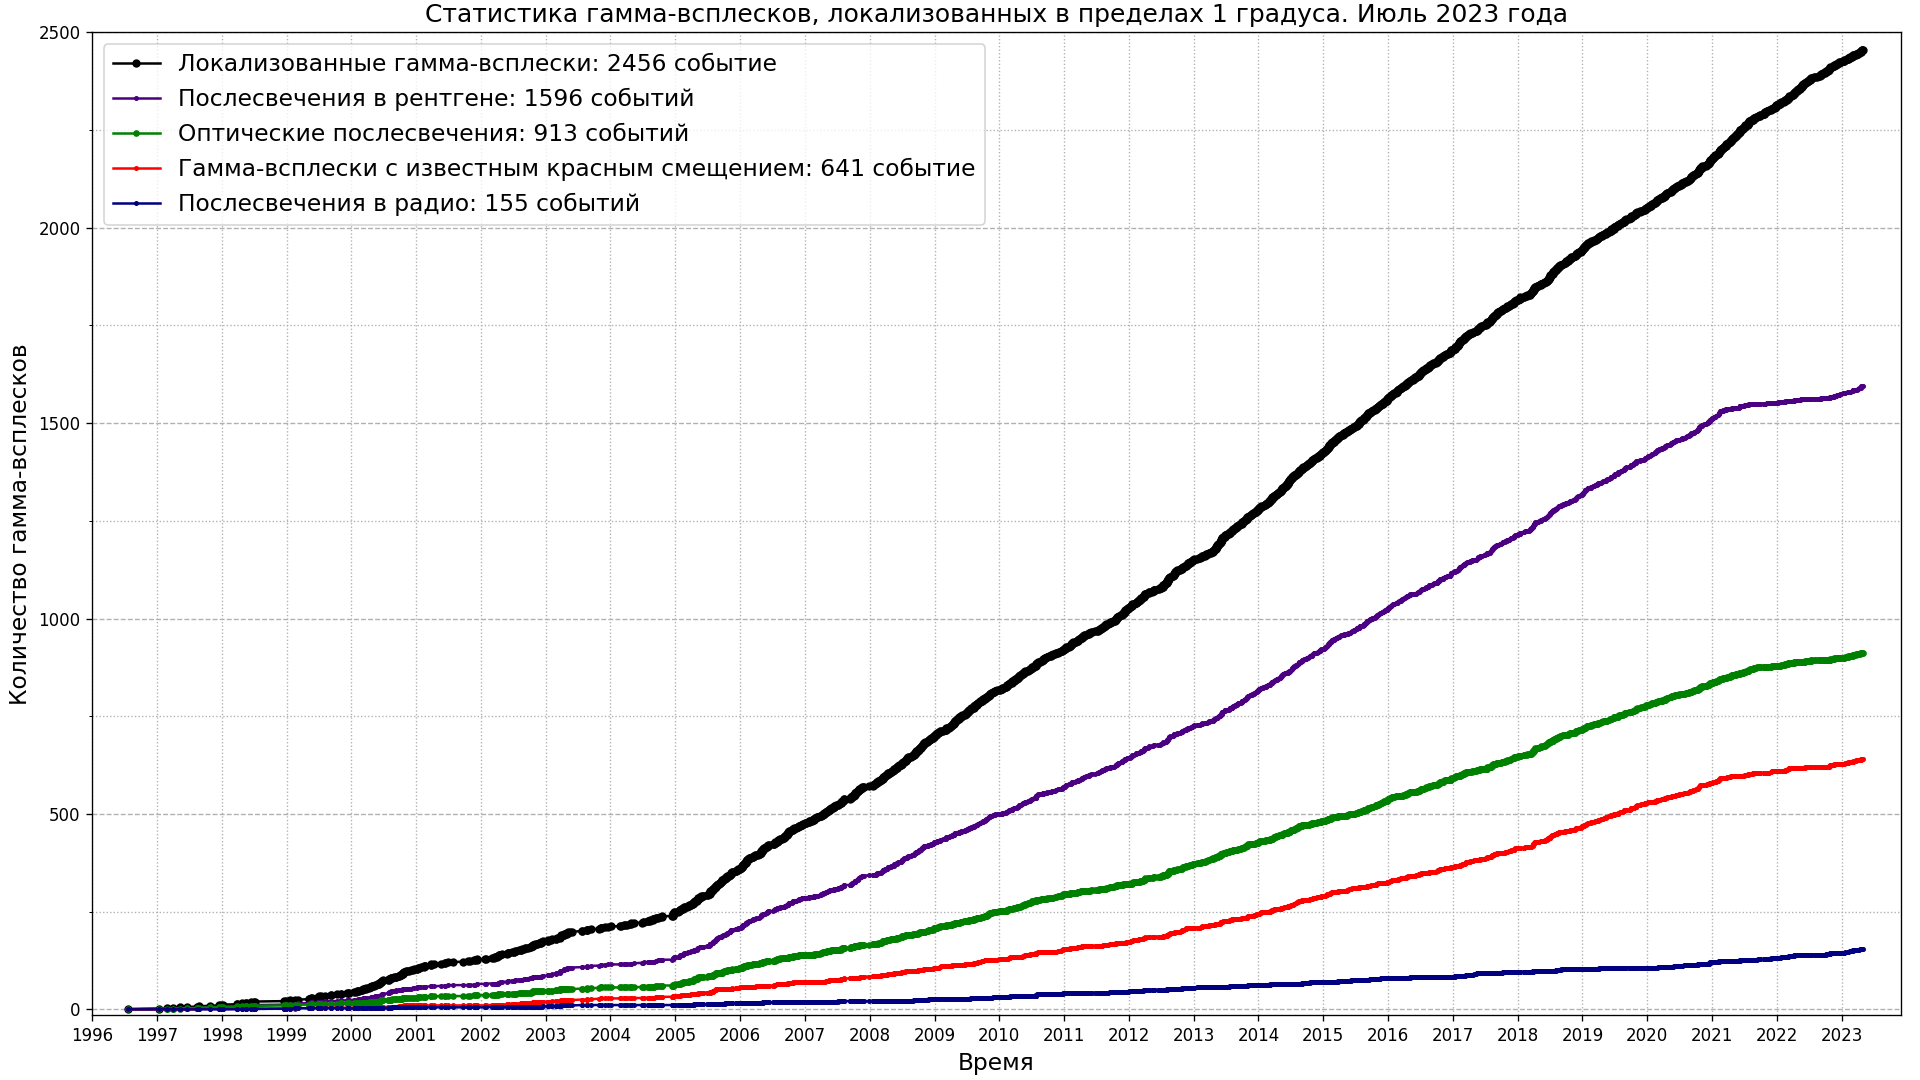
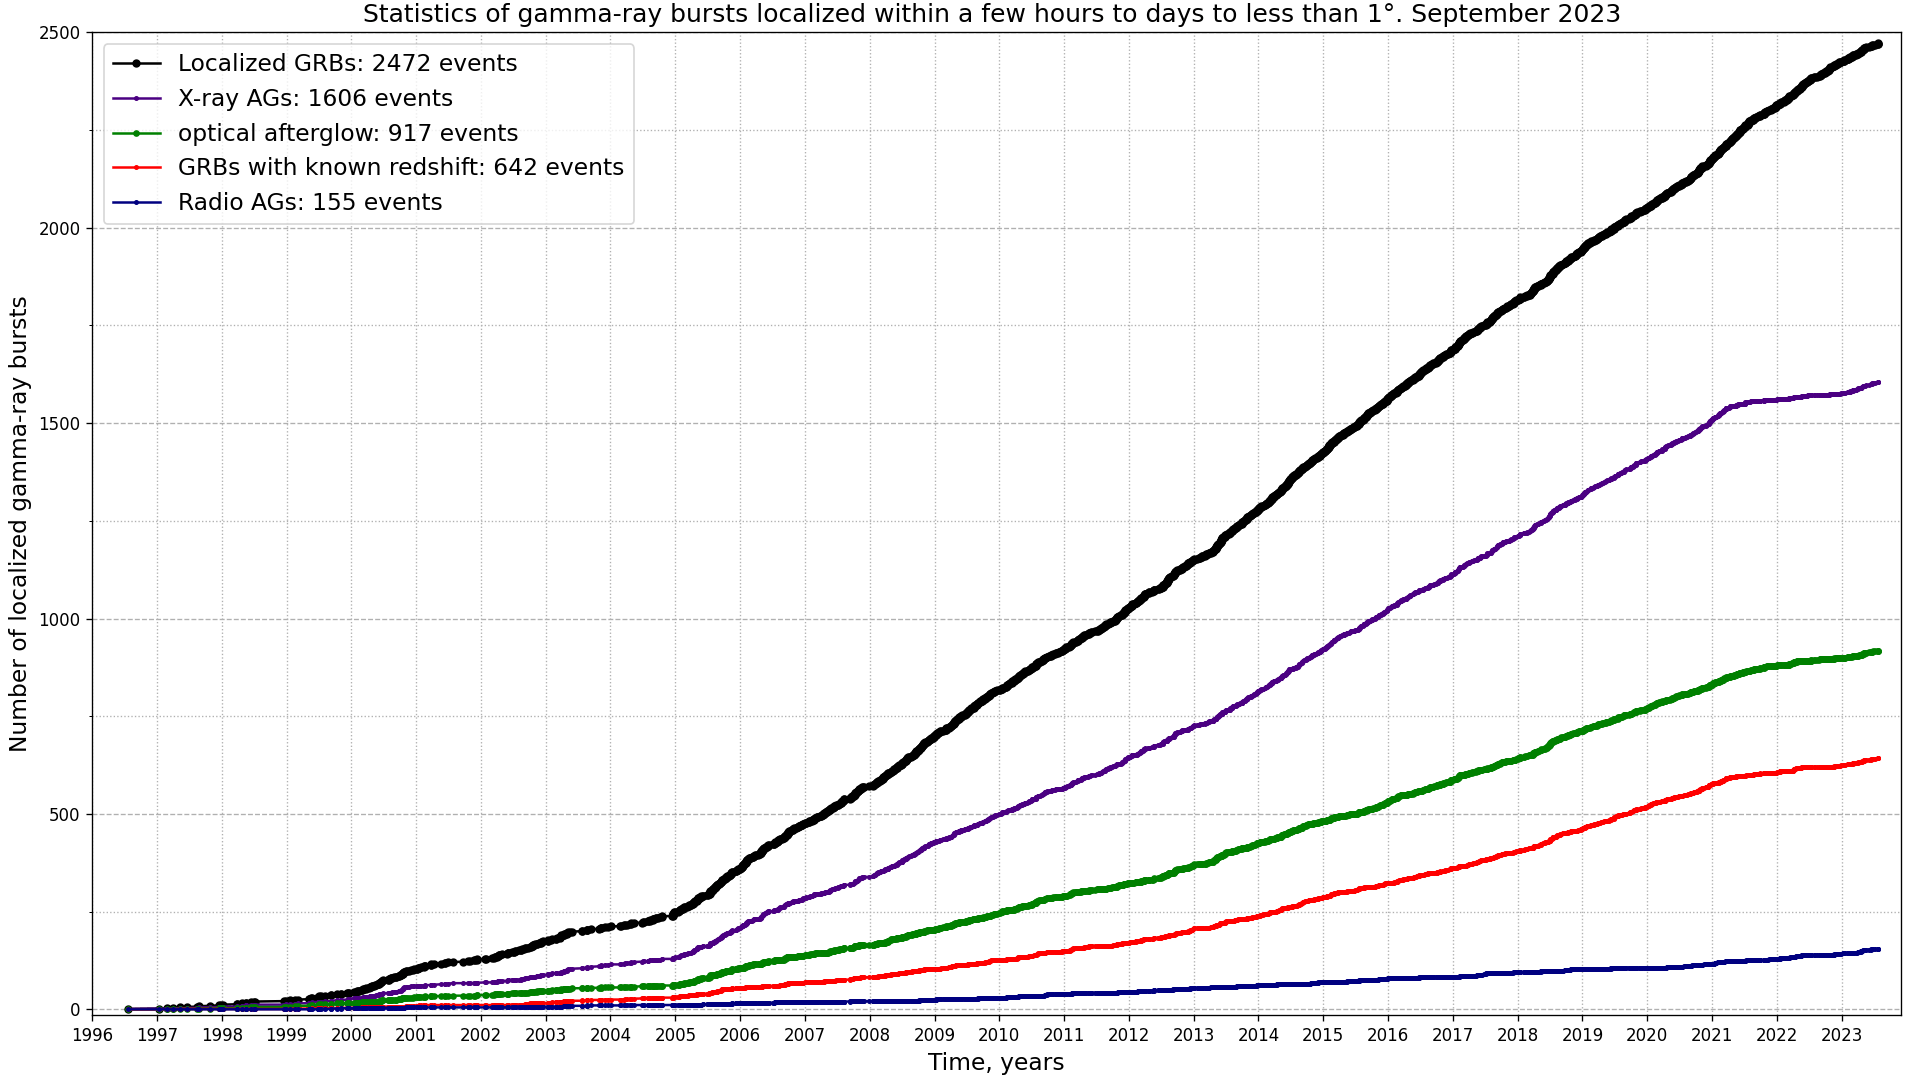
update plots, code and README.md files

diff --git a/src/astrodata/stars/plot_localized_grbs_stats.py b/src/astrodata/stars/plot_localized_grbs_stats.py
@@ -1,5 +1,5 @@
 """Python script for plotting charts with localized GRBs statistics.
-Data source:
+Data source: Jochen Greiner,
 Gamma-ray bursts localized within a few hours to days to less than 1 degree
 https://www.mpe.mpg.de/~jcg/grbgen.html
 """
@@ -64,7 +64,7 @@ def parse_table(trs):
         tds = tr.findAll("td")
         grbname = tds[0].a.text
         xray_ag = tds[5].text
-        apt_ag = tds[6].text
+        opt_ag = tds[6].text
         rad_ag = tds[7].text
         redshift = tds[9].text
         year = grbname[:2]
@@ -91,7 +91,7 @@ def parse_table(trs):
             except KeyError:
                 ra_dct[year] = 1
         grb_date = datetime(year, int(grbname[2:4]), int(grbname[4:6]))
-        if apt_ag and apt_ag.strip() in ("y", "SN"):  # with or without "y?"
+        if opt_ag and opt_ag.strip() in ("y", "SN"):  # with or without "y?"
             ot_num += 1
             try:
                 opts_dct[year] += 1
@@ -108,8 +108,6 @@ def parse_table(trs):
         xanums.append(xa_num)
         ranums.append(ra_num)
         rss.append(rs_num)
-    if args.verbose:
-        print("GRBs stats:", years_dct, opts_dct)
     return (grb_dates, grbnums, otnums, xanums, ranums, rss, years_dct,
             opts_dct, ra_dct, xa_dct, rs_dct)
 
@@ -118,6 +116,8 @@ parser = argparse.ArgumentParser(
     description="Graph plotter script with number of gamma-ray bursts")
 parser.add_argument("-v", "--verbose", action="store_true",
                     help="Print additional information")
+parser.add_argument("-s", "--savedata", action="store_true",
+                    help="Save data to JSON file")
 args = parser.parse_args()
 
 soup = get_soup_request("https://www.mpe.mpg.de/~jcg/grbgen.html", "lxml")
@@ -132,14 +132,18 @@ years_s, gnums_s, opts_s = get_summary_grbs_stats(trs_summary)
     xa_dct, rs_dct
 ) = parse_table(trs_all)
 
-locale.setlocale(locale.LC_ALL, "ru_RU")
+DPI = 120
+LOC = "ru_RU"  # "en_US"  #
+with open(f"../locales/grbs-{LOC[:2]}.json", "r", encoding="utf8") as loc_file:
+    msgs = json.load(loc_file)
+locale.setlocale(locale.LC_ALL, LOC)
 today = datetime.now()
 MONTH, YEAR = today.strftime("%B"), today.year
 PLOTS_DIR = os.path.join(os.pardir, os.pardir, os.pardir, "plots", "stars")
 FILE_EXT = "png"
-TOTAL_GRBS_FILENAME = "grbs_total_number_plot." + FILE_EXT
-pth = os.path.join(PLOTS_DIR, TOTAL_GRBS_FILENAME)
-tmp_pth = os.path.join(PLOTS_DIR, "grbs_total_number_plot_." + FILE_EXT)
+TOTAL_GRBS_FILENAME = f"grbs_total_number_plot-{LOC[:2]}"
+pth = os.path.join(PLOTS_DIR, f"{TOTAL_GRBS_FILENAME}.{FILE_EXT}")
+tmp_pth = os.path.join(PLOTS_DIR, f"{TOTAL_GRBS_FILENAME}_.{FILE_EXT}")
 
 fig, ax = plt.subplots(figsize=(16, 9))
 fig.subplots_adjust(0.048, 0.06, 0.99, 0.97)  # left=0.06, bottom=0.06, right=0.97, top=0.955
@@ -149,28 +153,28 @@ ax.yaxis.set_minor_locator(MultipleLocator(250))
 years = years[::-1]
 MS = 2
 plt.plot(years, grbnums, "ok-", ms=MS + 2,
-         label=f"Локализованные гамма-всплески: {len(grbnums)} событие")
+         label=f"{msgs['lgrbs']}: {len(grbnums)} {msgs['event'][0]}")
 plt.plot(years, xanums, "o-", ms=MS, color="indigo",
-         label=f"Послесвечения в рентгене: {xanums[-1]} событий")
+         label=f"{msgs['xrag']}: {xanums[-1]} {msgs['event'][1]}")
 plt.plot(years, otnums, "og-", ms=MS + 1,
-         label=f"Оптические послесвечения: {otnums[-1]} событий")
+         label=f"{msgs['optag']}: {otnums[-1]} {msgs['event'][1]}")
 plt.plot(years, rss, "o-", ms=MS, color="red",
-         label=f"Гамма-всплески с известным красным смещением: {rss[-1]} событие")
+         label=f"{msgs['rs']}: {rss[-1]} {msgs['event'][0]}")
 plt.plot(years, ranums, "o-", ms=MS, color="navy",
-         label=f"Послесвечения в радио: {ranums[-1]} событий")
+         label=f"{msgs['raag']}: {ranums[-1]} {msgs['event'][1]}")
 
 plt.xlim(datetime(1996, 1, 1), datetime(2023, 12, 1))
 plt.ylim(-15, 2500)
-TITLE = "Статистика гамма-всплесков, локализованных в пределах 1 градуса."
-plt.title(TITLE + f" {MONTH} {YEAR} года", fontsize=15)
-plt.xlabel("Время", fontsize=14)
-plt.ylabel("Количество гамма-всплесков", fontsize=14)
+TITLE = msgs["title"]
+plt.title(f"{TITLE}. {MONTH} {YEAR} {msgs['yr']}", fontsize=15)
+plt.xlabel(msgs["xlbl"], fontsize=14)
+plt.ylabel(msgs["ylbl"], fontsize=14)
 plt.grid(axis="y", which="major", linestyle="--")
 plt.grid(axis="x", which="major", linestyle=":")
 plt.grid(axis="y", which="minor", linestyle=":")
 plt.legend(fontsize=14, loc="upper left")
 
-plt.savefig(tmp_pth, dpi=120)
+plt.savefig(tmp_pth, dpi=DPI)
 if FILE_EXT == "svg":
     optimize_svg(tmp_pth, pth)
     os.remove(tmp_pth)
@@ -178,54 +182,75 @@ if FILE_EXT == "svg":
 if args.verbose:
     print("Plot stacked bar chart with numbers of optical afterglows")
 
-grbnums = list(years_dct.values())[::-1][1:]
-opts = list(opts_dct.values())[::-1]
-
-years_to_plot = list(opts_dct.keys())[::-1]
+grbnums = list(years_dct.values())[::-1]
+years_to_plot = list(years_dct.keys())[::-1]
 all_grbs = sum(grbnums)
 
 result_dct = {}
 grbnums_noopt = []
-all_grb_count, opt_count = 0, 0
+all_grb_count, xa_count, opt_count, ra_count, rs_count = 0, 0, 0, 0, 0
 for i, year in enumerate(years_to_plot):
     all_grb_count += grbnums[i]
-    opt_count += opts_dct[year]
+    if year in xa_dct:
+        xa_count += xa_dct[year]
+    else:
+        xa_dct[year] = 0
+    if year in opts_dct:
+        opt_count += opts_dct[year]
+    else:
+        opts_dct[year] = 0
+    if year in ra_dct:
+        ra_count += ra_dct[year]
+    else:
+        ra_dct[year] = 0
+    if year in rs_dct:
+        rs_count += rs_dct[year]
+    else:
+        rs_dct[year] = 0
     if args.verbose:
         print(
-            f"За {year} год {grbnums[i]} локализованных GRB, {xa_dct[year]} "
-            f"послесвечений в рентгене, {opts_dct[year]} оптических послесвечений, "
-            f"{ra_dct[year]} в радио, {rs_dct[year]} красных смещений. Всего "
-            f"к концу года {all_grb_count} GRB, {opt_count} послесвечений")
+            f"{year}: {grbnums[i]:3d} localized GRBs, {xa_dct[year]:3d} "
+            f"X-ray afterglows, {opts_dct[year]:2d} optical AGs, "
+            f"{ra_dct[year]:2d} radio AGs, {rs_dct[year]:2d} redshifts. Total "
+            f"by the end of the year {all_grb_count} GRBs, {opt_count} optical AGs"
+        )
     result_dct[year] = (grbnums[i], xa_dct[year], opts_dct[year], ra_dct[year],
                         rs_dct[year])
     grbnums_noopt.append(grbnums[i] - opts_dct[year])
 
-FILE_EXT = "svg"
-TMP_FILENAME = "grbs_stats_bar_chart_." + FILE_EXT
-FILENAME = "grbs_stats_bar_chart." + FILE_EXT
+opts = list(opts_dct.values())[::-1]
+
+FILE_EXT = "png"
+TMP_FILENAME = f"grbs_stats_bar_chart-{LOC[:2]}_." + FILE_EXT
+FILENAME = f"grbs_stats_bar_chart-{LOC[:2]}." + FILE_EXT
 tmp_pth = os.path.join(PLOTS_DIR, TMP_FILENAME)
 pth = os.path.join(PLOTS_DIR, FILENAME)
 
-data = {"Локализованные гамма-всплески без afterglow": grbnums_noopt,
-        "Гамма-всплески с оптическими послесвечениями": opts}
-df = pd.DataFrame(data, index=years_to_plot)
+df = pd.DataFrame(
+    {
+        f"{msgs['lgrbs']} {msgs['ag'][0]}": grbnums_noopt,
+        f"{msgs['grbs'][0]} {msgs['ag'][1]}": opts,
+    }, index=years_to_plot)
 
 ax = df.plot(kind="bar", stacked=True, figsize=(16, 9), width=0.85, rot=0)
 plt.subplots_adjust(left=0.06, bottom=0.06, right=0.97, top=0.955)  # 0.048, 0.06, 0.99, 0.97
-plt.xlabel("Год", fontsize=14)
-plt.ylabel("Гамма-всплесков за год", fontsize=14)
-plt.title(f"{TITLE} Всего {all_grbs} событий. {MONTH} {YEAR} года", fontsize=16)
+plt.xlabel(msgs["xlbl"], fontsize=14)
+plt.ylabel(msgs["ylbl2"], fontsize=14)
+plt.title(f"{TITLE}. {msgs['total']}{all_grbs} {msgs['event'][0]}, {opt_count} "
+          + f"{msgs['ag'][2]}. {MONTH} {YEAR} {msgs['yr']}", fontsize=14)
 plt.legend(fontsize=14, loc="upper left")
 ax.yaxis.set_minor_locator(MultipleLocator(5))
-ax.bar_label(ax.containers[-1])
+for x, y in enumerate(df.sum(axis=1)):
+    ax.annotate(int(y), (x, y+1), ha="center")
+# ax.bar_label(ax.containers[-1])
 
-plt.savefig(tmp_pth, dpi=240)
+plt.savefig(tmp_pth, dpi=DPI)
 if FILE_EXT == "svg":
     optimize_svg(tmp_pth, pth)
     os.remove(tmp_pth)
 
-JSON_FILENAME = "../../../data/grbs-stats/index.json"
-
-with open(JSON_FILENAME, 'w', encoding='utf8') as json_file:
-    json.dump(result_dct, json_file, indent=None, separators=(',', ': '),
-              ensure_ascii=False)
+if args.savedata:
+    JSON_FILENAME = "../../../data/stars/grbs-localized-stats.json"
+    with open(JSON_FILENAME, "w", encoding="utf8") as json_file:
+        json.dump(result_dct, json_file, indent=None,
+                  separators=(",", ": "), ensure_ascii=False)

diff --git a/src/astrodata/stars/README.md b/src/astrodata/stars/README.md
@@ -1,5 +1,8 @@
 # Stars related code
 
+[![en](https://img.shields.io/badge/lang-en-red.svg)](README.md)
+[![ru](https://img.shields.io/badge/lang-ru-green.svg)](README-ru.md)
+
 ## Variable stars statistics
 
 Bar charts with numbers of variable stars types in the General Catalog of Variable Stars (GCVS):
@@ -55,16 +58,17 @@ Code: [python script with data for plotting this charts](./plot_sne_transients_s
 ## Gamma-ray bursts observations
 
 ![Number of gamma-ray bursts which have been localized within a few hours to days to less than 1 degree](../../../plots/stars/grbs_total_number_plot.png "Number of gamma-ray bursts which have been localized within a few hours to days to less than 1 degree")
-![Gamma-ray bursts localized within a few hours to days to less than 1 degree: chart with number of optical afterglows](../../../plots/stars/grbs_stats_bar_chart.svg "Gamma-ray bursts localized within a few hours to days to less than 1 degree: chart with number of optical afterglows")
-Data source: [Jochen Greiner; GRBs localized within a few hours to days to less than 1 degree](https://www.mpe.mpg.de/~jcg/grbgen.html), [data as JSON](../../../data/stars/grbs-localized-stats.json).
-Code: [python script with data for plotting this charts](./plot_localized_grbs_stats.py).
+![Gamma-ray bursts localized within a few hours to days to less than 1 degree: chart with number of optical afterglows](../../../plots/stars/grbs_stats_bar_chart.png "Gamma-ray bursts localized within a few hours to days to less than 1 degree: chart with number of optical afterglows")
+Data source: [Jochen Greiner; GRBs localized within a few hours to days to less than 1 degree](https://www.mpe.mpg.de/~jcg/grbgen.html),
+[data as JSON](../../../data/stars/grbs-localized-stats.json).  
+Code: [python script with data for plotting this charts](./plot_localized_grbs_stats.py).  
 [Displaying data in html page using JavaScript](https://gvard.github.io/grb/stats/)
 
 ## Dependencies
 
 * [Matplotlib](https://matplotlib.org/)
 * [pandas](https://pandas.pydata.org/)
-* [Beautiful Soup](https://www.crummy.com/software/BeautifulSoup/bs4/doc/), [на русском языке](https://www.crummy.com/software/BeautifulSoup/bs4/doc.ru/)
+* [Beautiful Soup](https://www.crummy.com/software/BeautifulSoup/bs4/doc/), [on russian](https://www.crummy.com/software/BeautifulSoup/bs4/doc.ru/)
 * [Scour - an SVG Optimizer / Cleaner](https://github.com/scour-project/scour)
 
 For all stars related images see [this directory](../../../plots/stars/)

diff --git a/README-ru.md b/README-ru.md
@@ -36,9 +36,10 @@
 
 ## Наблюдения гамма-всплесков
 
-![Количество гамма-всплесков, локализованных в первые часы и дни в пределах одного градуса](./plots/stars/grbs_total_number_plot.png "Количество гамма-всплесков, локализованных в первые часы и дни в пределах одного градуса")
-![Динамика открытий гамма-всплесков, локализованных в первые часы и дни в пределах одного градуса: график с количеством оптических послесвечений](./plots/stars/grbs_stats_bar_chart.svg)
-Источник данных: [Jochen Greiner; GRBs localized within a few hours to days to less than 1 degree](https://www.mpe.mpg.de/~jcg/grbgen.html), [данные в формате JSON](data/stars/grbs-localized-stats.json).
+![Количество гамма-всплесков, локализованных в первые часы и дни в пределах одного градуса](./plots/stars/grbs_total_number_plot-ru.png "Количество гамма-всплесков, локализованных в первые часы и дни в пределах одного градуса")
+![Динамика открытий гамма-всплесков, локализованных в первые часы и дни в пределах одного градуса: график с количеством оптических послесвечений](./plots/stars/grbs_stats_bar_chart-ru.png)
+Источник данных: [Jochen Greiner; GRBs localized within a few hours to days to less than 1 degree](https://www.mpe.mpg.de/~jcg/grbgen.html),  
+[данные в формате JSON](data/stars/grbs-localized-stats.json).  
 [html страница для их отображения с кодом на JavaScript](https://gvard.github.io/grb/stats/)
 
 Все материалы по работе с данными о звездах:

diff --git a/plots/stars/README.md b/plots/stars/README.md
@@ -1,5 +1,8 @@
 # Stars related plots
 
+[![en](https://img.shields.io/badge/lang-en-red.svg)](README.md)
+[![ru](https://img.shields.io/badge/lang-ru-green.svg)](README-ru.md)
+
 ## Variable stars statistics
 
 Bar charts with numbers of variable stars types in the General Catalog of Variable Stars (GCVS):
@@ -55,10 +58,11 @@ Code: [python script with data for plotting this charts](../../src/astrodata/sta
 ## Gamma-ray bursts observations
 
 ![Number of gamma-ray bursts which have been localized within a few hours to days to less than 1 degree](./grbs_total_number_plot.png "Number of gamma-ray bursts which have been localized within a few hours to days to less than 1 degree")
-![Gamma-ray bursts localized within a few hours to days to less than 1 degree: chart with number of optical afterglows](./grbs_stats_bar_chart.svg "Gamma-ray bursts localized within a few hours to days to less than 1 degree: chart with number of optical afterglows")
-Data source: [Jochen Greiner; GRBs localized within a few hours to days to less than 1 degree](https://www.mpe.mpg.de/~jcg/grbgen.html), [data as JSON](../../data/stars/grbs-localized-stats.json).
-Code: [python script with data for plotting this charts](../../src/astrodata/stars/plot_localized_grbs_stats.py).
-[Displaying data in html page using JavaScript](https://gvard.github.io/grb/stats/)
+![Gamma-ray bursts localized within a few hours to days to less than 1 degree: chart with number of optical afterglows](./grbs_stats_bar_chart.png "Gamma-ray bursts localized within a few hours to days to less than 1 degree: chart with number of optical afterglows")
+Data source: [Jochen Greiner; GRBs localized within a few hours to days to less than 1 degree](https://www.mpe.mpg.de/~jcg/grbgen.html),
+[data as JSON](../../data/stars/grbs-localized-stats.json).  
+Code: [python script with data for plotting this charts](../../src/astrodata/stars/plot_localized_grbs_stats.py).  
+[Displaying this data in html page using JavaScript](https://gvard.github.io/grb/stats/)
 
 ## Image optimization applied
 

diff --git a/README.md b/README.md
@@ -38,8 +38,9 @@ See this links for all Solar System related [plots](./plots/solarsystem/) and [c
 ## Gamma-ray bursts observations
 
 ![Number of gamma-ray bursts which have been localized within a few hours to days to less than 1 degree](./plots/stars/grbs_total_number_plot.png "Number of gamma-ray bursts which have been localized within a few hours to days to less than 1 degree")
-![Gamma-ray bursts localized within a few hours to days to less than 1 degree: chart with number of optical afterglows](./plots/stars/grbs_stats_bar_chart.svg "Gamma-ray bursts localized within a few hours to days to less than 1 degree: chart with number of optical afterglows")
-[Data source: Jochen Greiner; GRBs localized within a few hours to days to less than 1 degree](https://www.mpe.mpg.de/~jcg/grbgen.html), [data as JSON](data/stars/grbs-localized-stats.json).
+![Gamma-ray bursts localized within a few hours to days to less than 1 degree: chart with number of optical afterglows](./plots/stars/grbs_stats_bar_chart.png "Gamma-ray bursts localized within a few hours to days to less than 1 degree: chart with number of optical afterglows")
+[Data source: Jochen Greiner; GRBs localized within a few hours to days to less than 1 degree](https://www.mpe.mpg.de/~jcg/grbgen.html),
+[data as JSON](data/stars/grbs-localized-stats.json).  
 [Displaying data in html page using JavaScript](https://gvard.github.io/grb/stats/)
 
 See this links for all stars related [plots](./plots/stars/), [code](./src/astrodata/stars/) and [data](./data/stars/)
